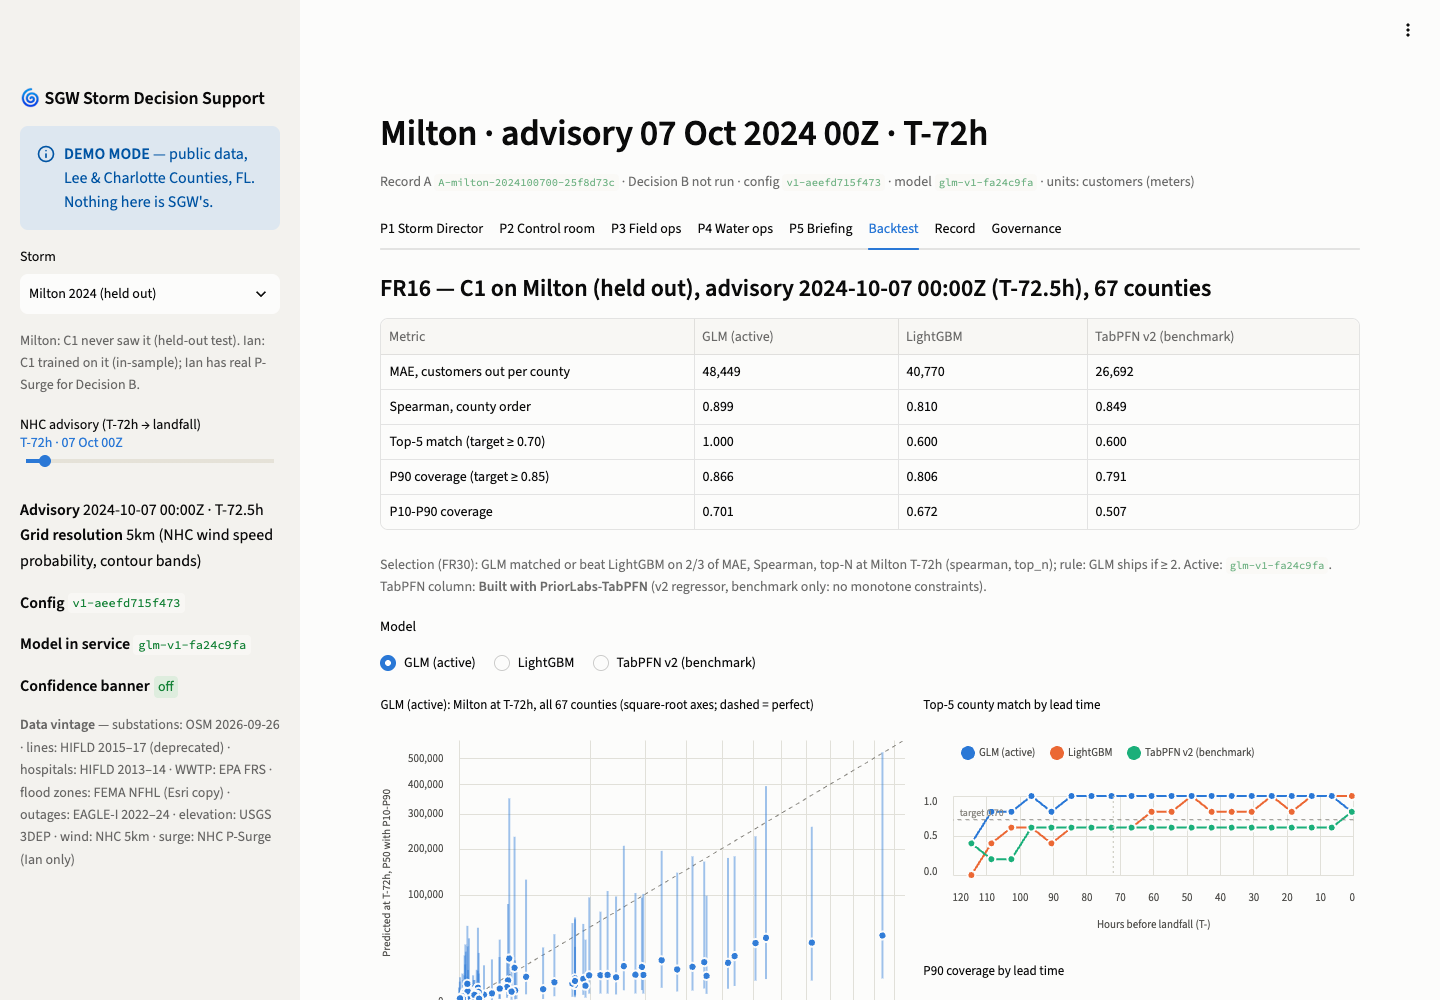
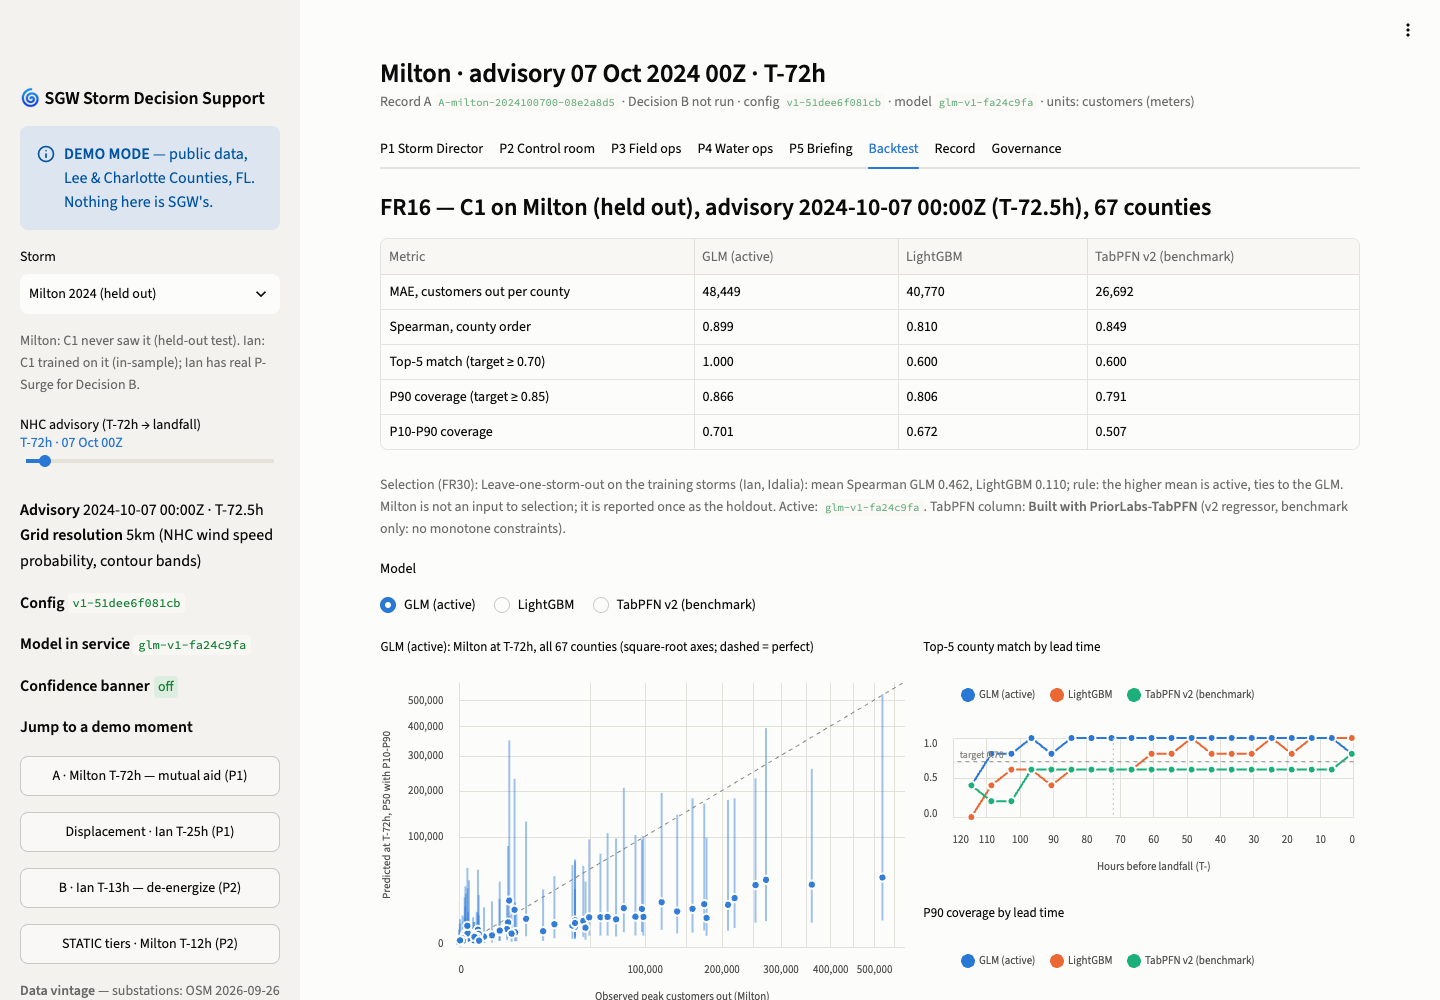
UI review: layout, P2 table order, demo-moment jumps, screenshots
- Sidebar 'Jump to a demo moment': Beat A (Milton T-72h), displacement
  (Ian T-25h), Beat B (Ian T-13h), STATIC tiers (Milton T-12h)
- P2: recommendation-first table sorted de-energize > escalate > watch >
  judgment; constant Source/Threshold moved to the header; short metric
  labels (detail in help); toggles in one row; outside-screening list
  after the main table
- P1: one-line banner, whole-number crew-hours input, staging table fits,
  rule notes only for displaced zones, compact sign-off form
- Record tab: fitted table with fewer columns; tighter page spacing
- README screenshots regenerated (P2 had pre-R2 labels)

diff --git a/app/app.py b/app/app.py
@@ -31,6 +31,13 @@ from src.pull.common import PROCESSED, STORMS  # noqa: E402
 from src.store import record  # noqa: E402
 
 st.set_page_config(page_title="SGW Storm Decision Support (POC)", page_icon="🌀", layout="wide")
+st.markdown("""<style>
+.block-container {padding-top: 1.6rem; padding-bottom: 3rem; max-width: 1480px;}
+h2 {font-size: 1.65rem !important; padding-bottom: 0.1rem !important;}
+[data-testid="stMetricValue"] {font-size: 1.9rem;}
+[data-testid="stMetricLabel"] p {font-size: 0.85rem;}
+[data-testid="stSidebar"] .stButton button {justify-content: flex-start; font-size: 0.85rem; padding: 0.2rem 0.6rem;}
+</style>""", unsafe_allow_html=True)
 
 STORM_OPTIONS = {
     "milton": "Milton 2024 (held out)",
@@ -97,6 +104,20 @@ def actions_for(record_id: str) -> list[dict]:
 
 
 # ---------------------------------------------------------------- sidebar
+DEMO_MOMENTS = {  # label -> (storm, latest advisory at or before T-lead); open the tab named in the label
+    "A · Milton T-72h — mutual aid (P1)": ("milton", 72),
+    "Displacement · Ian T-25h (P1)": ("ian", 25),
+    "B · Ian T-13h — de-energize (P2)": ("ian", 12),
+    "STATIC tiers · Milton T-12h (P2)": ("milton", 12),
+}
+
+
+def _jump(j_storm: str, lead_h: float) -> None:
+    a = advisories(j_storm)
+    st.session_state["storm"] = j_storm
+    st.session_state[f"adv_{j_storm}"] = a[a["hours_to_landfall"] >= lead_h]["advisory_time"].max().isoformat()
+
+
 C = cfg()
 with st.sidebar:
     st.markdown("### 🌀 SGW Storm Decision Support")
@@ -123,6 +144,9 @@ with st.sidebar:
     bt = backtest()["fr16"][kind]
     banner_on = bt["top_n_match"] < C["banner_topn_match"] or bt["p90_coverage"] < C["banner_p90_coverage"]
     st.markdown("**Confidence banner** " + (":red-badge[ON]" if banner_on else ":green-badge[off]"))
+    st.markdown("**Jump to a demo moment**")
+    for label, (j_storm, j_lead) in DEMO_MOMENTS.items():
+        st.button(label, on_click=_jump, args=(j_storm, j_lead), width="stretch", key=f"jump_{label}")
     st.caption("**Data vintage** — substations: OSM 2026-09-26 · lines: HIFLD 2015–17 (deprecated) · hospitals: HIFLD "
                "2013–14 · WWTP: EPA FRS · flood zones: FEMA NFHL (Esri copy) · outages: EAGLE-I 2022–24 · elevation: "
                "USGS 3DEP · wind: NHC 5km · surge: NHC P-Surge (Ian only)")
@@ -151,28 +175,30 @@ with tabs[0]:
                  f"{banner['targets']['top_n_match']:.2f}), P90 coverage {banner['p90_coverage']:.2f} (target "
                  f"{banner['targets']['p90_coverage']:.2f}). **Decide on judgment.** (FR17)", icon=":material/warning:")
     else:
-        st.success(f"Confidence banner **off** — model `{A['model_version']}` met its targets on held-out "
-                   f"{banner['held_out_storm'].title()}: top-5 match {banner['top_n_match']:.2f} ≥ "
-                   f"{banner['targets']['top_n_match']:.2f}, P90 coverage {banner['p90_coverage']:.2f} ≥ "
-                   f"{banner['targets']['p90_coverage']:.2f}. (FR17)", icon=":material/check_circle:")
+        st.success(f"Confidence banner **off** — targets met on held-out {banner['held_out_storm'].title()}: top-5 "
+                   f"{banner['top_n_match']:.2f} ≥ {banner['targets']['top_n_match']:.2f} · P90 coverage "
+                   f"{banner['p90_coverage']:.2f} ≥ {banner['targets']['p90_coverage']:.2f} (FR17)",
+                   icon=":material/check_circle:")
 
     c1, c2, c3, c4 = st.columns(4)
     c1.metric("Mutual aid request", f"{plan['mutual_aid_crews']:,} crews", help=plan["formula"])
     c2.metric("Workers", f"{plan['mutual_aid_workers']:,}", help=f"crew size {plan['crew_size']} (PLACEHOLDER)")
     c3.metric("P90 crew-hours (Lee + Charlotte)", ui.fmt(plan["total_crew_hours_p90"]))
-    c4.metric("If sized on P50", f"{plan['mutual_aid_crews_if_p50']:,} crews")
+    c4.metric("Same rule on P50", f"{plan['mutual_aid_crews_if_p50']:,} crews", help="For comparison: the request is sized on P90")
     st.caption(scale_line(plan), help=plan.get("calibration_note"))
 
     with st.container(border=True):
         cc1, cc2 = st.columns([1, 2])
-        default_crew = float(C["own_crew_hours_default"])
-        entered = cc1.number_input("SGW's own available crew-hours", min_value=0.0, step=1000.0,
-                                   value=float(A["crew_hours_entered"]), key=f"crew_in_{storm}_{t_iso}")
-        cc2.markdown(":violet-badge[PLACEHOLDER] typed by P1 at T-72h and revised at T-48h (FR11); the crew roster "
-                     "replaces the typing in Phase 2. Changing it reruns Decision A and writes a new record.  \n"
-                     f"Current source: **{A['crew_hours_source']}**. Restoration window {plan['restoration_days']:.0f} days, "
-                     f"crew size {plan['crew_size']}, {plan['restoration_rate']:.0f} customers per worker-day — all config values.")
-        if entered != float(A["crew_hours_entered"]):
+        default_crew = int(C["own_crew_hours_default"])
+        entered = cc1.number_input("SGW's own available crew-hours", min_value=0, step=1000, format="%d",
+                                   value=int(A["crew_hours_entered"]), key=f"crew_in_{storm}_{t_iso}")
+        src_badge = (":violet-badge[PLACEHOLDER] default value." if "PLACEHOLDER" in A["crew_hours_source"]
+                     else ":blue-badge[ENTERED BY P1]")
+        cc2.markdown(f"{src_badge} P1 types it at T-72h and revises it at T-48h (FR11); "
+                     "changing it reruns Decision A and writes a new record.  \n"
+                     f"Config: {plan['restoration_days']:.0f}-day window · crew size {plan['crew_size']} · "
+                     f"{plan['restoration_rate']:.0f} customers per worker-day (all placeholders).")
+        if entered != int(A["crew_hours_entered"]):
             st.session_state[f"crew_{storm}_{t_iso}"] = None if entered == default_crew else entered
             st.rerun()
 
@@ -218,7 +244,7 @@ with tabs[0]:
         zp["assigned"] = [f"{'⚠ DISPLACED → ' if d else ''}{s or 'none below threshold: P1 decides'}"
                           for d, s in zip(zp["displaced"], zp["assigned_site_name"])]
         zp["mapped"] = [f"{n} ({p:.2f})" for n, p in zip(zp["mapped_site_name"], zp["mapped_site_p64"])]
-        st.dataframe(zp[["zone_name", "assigned", "customers_out_p50", "customers_out_p90", "crew_hours_p90", "mapped"]],
+        st.dataframe(zp[["zone_name", "assigned", "customers_out_p50", "customers_out_p90", "mapped"]],
                      hide_index=True, width="stretch",
                      column_config={"zone_name": "Zone", "customers_out_p50": st.column_config.NumberColumn("P50 out", format="%,d"),
                                     "customers_out_p90": st.column_config.NumberColumn("P90 out", format="%,d"),
@@ -226,7 +252,8 @@ with tabs[0]:
                                     "crew_hours_p90": st.column_config.NumberColumn("P90 crew-h", format="%,d"),
                                     "mapped": "Mapped site (p64)", "assigned": "Assigned site"})
         for z in plan["zones"]:
-            st.caption(f"{z['zone_name']}: {z['note']}")
+            if z.get("displaced"):
+                st.caption(f"⚠ {z['zone_name']}: {z['note']}")
         st.caption(f":violet-badge[PLACEHOLDER] staging site list (the real list lives in SGW's storm plan, A19). "
                    f"Site displaced if its 64 kt probability > {C['site_wind_threshold']:.2f}.")
         st.markdown("**County estimates** (C1, P10 / P50 / P90 customers out) — zones and the statewide top 8")
@@ -250,8 +277,8 @@ with tabs[0]:
                 payload["mutual_aid_crews"] = st.number_input("Crews to request", min_value=0, value=int(plan["mutual_aid_crews"]), step=50)
                 payload["staging_note"] = st.text_input("Staging change (optional)")
             if choice == "Override":
-                payload["plan_as_decided"] = st.text_area("Plan as decided")
-            reason = st.text_area("Reason" + (" (required)" if choice != "Approve" else " (optional)"))
+                payload["plan_as_decided"] = st.text_area("Plan as decided", height=80)
+            reason = st.text_area("Reason" + (" (required)" if choice != "Approve" else " (optional)"), height=80)
             if st.form_submit_button(f"{choice} and write to the record", type="primary"):
                 try:
                     record.add_action(conn(), choice.upper(), actor, A["record_id"], reason or None, payload or None)
@@ -278,13 +305,7 @@ with tabs[1]:
         st.info(f"Decision B does not run for this advisory: no P-Surge grid is loaded and it is before T-"
                 f"{C['decisionB_starts_hours']}h (the watch window). P2 sees nothing from C5. Move the advisory slider "
                 "closer to landfall, or pick Ian (real P-Surge).", icon=":material/schedule:")
-
-        def _jump_to_ian_t12():
-            a_ian = advisories("ian")
-            st.session_state["storm"] = "ian"
-            st.session_state["adv_ian"] = a_ian[a_ian["hours_to_landfall"] >= 12]["advisory_time"].max().isoformat()
-
-        st.button("Jump to Ian T-13h", on_click=_jump_to_ian_t12, icon=":material/fast_forward:")
+        st.button("Jump to Ian T-13h", on_click=_jump, args=("ian", 12), icon=":material/fast_forward:")
     else:
         rc = B["recommendation"]
         est_b = pd.DataFrame(B["estimates"]["substations"])
@@ -305,82 +326,80 @@ with tabs[1]:
                         "otherwise, and routes to **P2's judgment**."
                         f" · Height :orange-badge[ESTIMATED] ground (3DEP) + {C['height_offset_m']} m placeholder offset"
                         " · Flood sensor :gray-badge[BLANK] no historian in the prototype (FR21)")
-        held = sb[sb["escalation"].fillna(False).astype(bool)]
+        esc = sb["escalation"].fillna(False).astype(bool)
         n_judg = int((sb["recommendation"] == "JUDGMENT").sum())
+        n_de = int((sb["recommendation"] == "DE-ENERGIZE").sum())
         m1, m2, m3, m4, m5 = st.columns(5)
         m1.metric("Screening set", len(sb), help="Substations in FEMA zones " + ", ".join(C["screening_zones"]))
-        m2.metric("🔴 DE-ENERGIZE", int((sb["recommendation"] == "DE-ENERGIZE").sum()))
-        m3.metric("🟠 ESCALATE: confirm backup", len(held), help="Above threshold, held on WATCH: a hospital or pumping "
-                                                                 "station on the PLACEHOLDER FEED has unknown backup (A18). "
-                                                                 "Confirm its backup before de-energizing.")
-        m4.metric("🟡 WATCH: below threshold", int((sb["recommendation"] == "WATCH").sum()) - len(held))
-        m5.metric("⚪ JUDGMENT (STATIC)", n_judg, help="No P-Surge snapshot: STATIC tier from FEMA zone and BFE; P2 decides")
-        mc1 = mc2 = st.container()
-        with mc1:
-            show_zones = st.toggle("FEMA flood zones", value=True)
-            show_hwm = st.toggle("USGS high-water marks (Ian, observed)", value=(storm == "ian"), disabled=(storm != "ian"))
-            show_out = st.toggle("Show substations outside the screening set with P-Surge above threshold",
-                                 value=(src == "PSURGE"), disabled=(src != "PSURGE"))
-            layers = []
-            if show_zones:
-                zgeo = load_geo("flood_sfha")
-                for f in zgeo["features"]:
-                    z = f["properties"]["FLD_ZONE"]
-                    f["properties"]["fill"] = ui.rgb(ui.SEQ[5] if z == "VE" else ui.SEQ[2], 90)
-                layers.append(pdk.Layer("GeoJsonLayer", zgeo, filled=True, stroked=False, get_fill_color="properties.fill"))
-            if show_hwm and storm == "ian":
-                h = load_parquet("hwm_ian").copy()
-                h["txt"] = [f"HWM {w:.2f} m NAVD88" for w in h["water_elev_m_navd88"]]
-                layers.append(pdk.Layer("ScatterplotLayer", h, get_position=["lon", "lat"], get_radius=4, radius_units="'pixels'",
-                                        get_fill_color=ui.rgb(ui.SEQ[11], 220), pickable=True))
-            esc = sb["escalation"].fillna(False).astype(bool)
-            sb["color"] = [ui.rgb(ui.STATUS["critical"]) if r == "DE-ENERGIZE" else ui.rgb(ui.STATUS["serious"]) if e else
-                           (ui.rgb(ui.INK["muted"]) if r == "JUDGMENT" else ui.rgb(ui.STATUS["warning"]))
-                           for r, e in zip(sb["recommendation"], esc)]
-            sb["txt"] = [f"{n or a} · {'WATCH · ESCALATE' if e else r} · " + (f"STATIC tier {t}" if r == "JUDGMENT" else f"p {p:.2f}")
-                         for n, a, r, p, t, e in zip(sb["name"], sb["asset_id"], sb["recommendation"], sb["prob"],
-                                                     sb["static_tier"], esc)]
-            layers.append(pdk.Layer("ScatterplotLayer", sb, get_position=["lon", "lat"], get_radius=8, radius_units="'pixels'",
-                                    get_fill_color="color", stroked=True, get_line_color=[255, 255, 255], line_width_min_pixels=2,
-                                    pickable=True))
-            ox = pd.DataFrame()
-            if show_out and src == "PSURGE":
-                allf = c5.inundation(load_parquet("registry"), load_parquet("psurge_sites"), storm, t, C, screen=False)
-                ox = allf[~allf["fema_zone"].isin(C["screening_zones"]) & allf["prob_source"].eq("PSURGE")
-                          & (allf["prob"] >= rc["threshold_in_force"])].sort_values("prob", ascending=False).copy()
-                ox["txt"] = [f"{n or a} · zone {z} · P-Surge {p:.2f} · outside the screening set"
-                             for n, a, z, p in zip(ox["name"], ox["asset_id"], ox["fema_zone"], ox["prob"])]
-                layers.append(pdk.Layer("ScatterplotLayer", ox, get_position=["lon", "lat"], get_radius=9, radius_units="'pixels'",
-                                        filled=False, stroked=True, get_line_color=ui.rgb(ui.INK["primary"]),
-                                        line_width_min_pixels=3, pickable=True))
-            st.pydeck_chart(ui.deck(layers, ui.STUDY_VIEW, {"html": "{txt}", "style": ui.TOOLTIP_STYLE}, height=440))
-            st.caption("🔴 DE-ENERGIZE · 🟠 ESCALATE (WATCH, confirm backup) · 🟡 WATCH · ⚪ JUDGMENT (STATIC tier) · ◯ hollow ring = outside the screening set, "
-                       "P-Surge above threshold · blue fill = FEMA special flood hazard area (darker = VE) · dark dots = "
-                       "Ian high-water marks. Hover for values.")
-            if len(ox):
-                st.caption(f"◯ {len(ox)} substation(s): not in the FEMA-zone screening set; P-Surge flags them anyway. "
-                           "Phase 0 should screen on P-Surge coverage as well as FEMA zone (LIMITATIONS §4).")
-                st.dataframe(ox[["asset_id", "name", "fema_zone", "prob", "ground_elev_m"]], hide_index=True, width="stretch",
-                             column_config={"asset_id": "ID", "name": "Substation", "fema_zone": "Zone",
-                                            "prob": st.column_config.NumberColumn("P-Surge", format="%.2f"),
-                                            "ground_elev_m": st.column_config.NumberColumn("Ground m", format="%.2f")})
-        with mc2:
-            sb["rec"] = ["🟠 WATCH · ESCALATE" if e else ui.REC_ICON.get(r, r) for r, e in
-                         zip(sb["recommendation"], sb["escalation"].fillna(False).astype(bool))]
-            cols = ["asset_id", "name", "fema_zone", "ground_elev_m", "switchgear_m_navd88", "prob", "prob_source", "threshold",
-                    "critical_load_check", "rec", "reason"]
-            if n_judg:
-                cols = [c if c != "prob" else "static_tier" for c in cols if c != "threshold"]
-            st.dataframe(sb.sort_values("prob", ascending=False)[cols],
-                         hide_index=True, width="stretch", height=440,
+        m2.metric("🔴 De-energize", n_de, help="P-Surge probability at or above the threshold in force; no critical load on the feed")
+        m3.metric("🟠 Escalate", int(esc.sum()), help="ESCALATE: confirm backup. Above threshold, held on WATCH: a hospital "
+                                                      "or pumping station on the PLACEHOLDER FEED has unknown backup (A18). "
+                                                      "Confirm its backup before de-energizing.")
+        m4.metric("🟡 Watch", int((sb["recommendation"] == "WATCH").sum()) - int(esc.sum()), help="Below the threshold in force")
+        m5.metric("⚪ Judgment", n_judg, help="JUDGMENT (STATIC): no P-Surge snapshot, so a STATIC tier from FEMA zone and "
+                                             "BFE routes the site to P2's judgment")
+        t1, t2, t3 = st.columns([0.8, 1.1, 1.6])
+        show_zones = t1.toggle("FEMA flood zones", value=True)
+        show_hwm = t2.toggle("USGS high-water marks (Ian, observed)", value=(storm == "ian"), disabled=(storm != "ian"))
+        show_out = t3.toggle("Show substations outside the screening set with P-Surge above threshold",
+                             value=(src == "PSURGE"), disabled=(src != "PSURGE"))
+        layers = []
+        if show_zones:
+            zgeo = load_geo("flood_sfha")
+            for f in zgeo["features"]:
+                z = f["properties"]["FLD_ZONE"]
+                f["properties"]["fill"] = ui.rgb(ui.SEQ[5] if z == "VE" else ui.SEQ[2], 90)
+            layers.append(pdk.Layer("GeoJsonLayer", zgeo, filled=True, stroked=False, get_fill_color="properties.fill"))
+        if show_hwm and storm == "ian":
+            h = load_parquet("hwm_ian").copy()
+            h["txt"] = [f"HWM {w:.2f} m NAVD88" for w in h["water_elev_m_navd88"]]
+            layers.append(pdk.Layer("ScatterplotLayer", h, get_position=["lon", "lat"], get_radius=4, radius_units="'pixels'",
+                                    get_fill_color=ui.rgb(ui.SEQ[11], 220), pickable=True))
+        sb["color"] = [ui.rgb(ui.STATUS["critical"]) if r == "DE-ENERGIZE" else ui.rgb(ui.STATUS["serious"]) if e else
+                       (ui.rgb(ui.INK["muted"]) if r == "JUDGMENT" else ui.rgb(ui.STATUS["warning"]))
+                       for r, e in zip(sb["recommendation"], esc)]
+        sb["txt"] = [f"{n or a} · {'WATCH · ESCALATE' if e else r} · " + (f"STATIC tier {t_}" if r == "JUDGMENT" else f"p {p:.2f}")
+                     for n, a, r, p, t_, e in zip(sb["name"], sb["asset_id"], sb["recommendation"], sb["prob"],
+                                                  sb["static_tier"], esc)]
+        layers.append(pdk.Layer("ScatterplotLayer", sb, get_position=["lon", "lat"], get_radius=8, radius_units="'pixels'",
+                                get_fill_color="color", stroked=True, get_line_color=[255, 255, 255], line_width_min_pixels=2,
+                                pickable=True))
+        ox = pd.DataFrame()
+        if show_out and src == "PSURGE":
+            allf = c5.inundation(load_parquet("registry"), load_parquet("psurge_sites"), storm, t, C, screen=False)
+            ox = allf[~allf["fema_zone"].isin(C["screening_zones"]) & allf["prob_source"].eq("PSURGE")
+                      & (allf["prob"] >= rc["threshold_in_force"])].sort_values("prob", ascending=False).copy()
+            ox["txt"] = [f"{n or a} · zone {z} · P-Surge {p:.2f} · outside the screening set"
+                         for n, a, z, p in zip(ox["name"], ox["asset_id"], ox["fema_zone"], ox["prob"])]
+            layers.append(pdk.Layer("ScatterplotLayer", ox, get_position=["lon", "lat"], get_radius=9, radius_units="'pixels'",
+                                    filled=False, stroked=True, get_line_color=ui.rgb(ui.INK["primary"]),
+                                    line_width_min_pixels=3, pickable=True))
+        st.pydeck_chart(ui.deck(layers, ui.STUDY_VIEW, {"html": "{txt}", "style": ui.TOOLTIP_STYLE}, height=440))
+        st.caption("🔴 de-energize · 🟠 escalate (WATCH, confirm backup) · 🟡 watch · ⚪ judgment (STATIC tier) · ◯ outside the "
+                   "screening set, P-Surge above threshold · blue fill = FEMA flood zone (darker = VE) · dark dots = Ian "
+                   "high-water marks. Hover for values.")
+        sb["rec"] = ["🟠 WATCH · ESCALATE" if e else ui.REC_ICON.get(r, r) for r, e in zip(sb["recommendation"], esc)]
+        order = {"DE-ENERGIZE": 0, "WATCH": 2, "JUDGMENT": 3}
+        sb["_o"] = [1 if e else order.get(r, 4) for r, e in zip(sb["recommendation"], esc)]
+        lead = "static_tier" if n_judg else "prob"
+        st.dataframe(sb.sort_values(["_o", "prob"], ascending=[True, False])[
+                         ["rec", "asset_id", "name", lead, "fema_zone", "switchgear_m_navd88", "critical_load_check", "reason"]],
+                     hide_index=True, width="stretch", height=420,
+                     column_config={"rec": "Recommendation", "asset_id": "ID", "name": "Substation", "fema_zone": "Zone",
+                                    "prob": st.column_config.ProgressColumn("P(inundation)", min_value=0.0, max_value=1.0, format="%.2f"),
+                                    "static_tier": "STATIC tier",
+                                    "switchgear_m_navd88": st.column_config.NumberColumn("Switchgear m (ESTIMATED)", format="%.2f"),
+                                    "critical_load_check": "Critical load", "reason": "Why"})
+        if len(ox):
+            st.markdown(f"**◯ Outside the screening set — P-Surge above threshold ({len(ox)})**")
+            st.caption("Not in the FEMA-zone screening set; P-Surge flags them anyway. Phase 0 should screen on P-Surge "
+                       "coverage as well as FEMA zone (LIMITATIONS §4).")
+            st.dataframe(ox[["asset_id", "name", "fema_zone", "prob", "ground_elev_m"]], hide_index=True, width="stretch",
                          column_config={"asset_id": "ID", "name": "Substation", "fema_zone": "Zone",
-                                        "ground_elev_m": st.column_config.NumberColumn("Ground m", format="%.2f"),
-                                        "switchgear_m_navd88": st.column_config.NumberColumn("Switchgear m (ESTIMATED)", format="%.2f"),
-                                        "prob": st.column_config.ProgressColumn("P(inundation)", min_value=0.0, max_value=1.0, format="%.2f"),
-                                        "prob_source": "Source", "threshold": st.column_config.NumberColumn("Threshold", format="%.2f"),
-                                        "static_tier": "STATIC tier",
-                                        "critical_load_check": "Critical load", "rec": "Recommendation", "reason": "Why"})
-        st.markdown("#### Sign-off (FR24) — the control room switches in its own systems; the platform never touches SCADA")
+                                        "prob": st.column_config.NumberColumn("P-Surge", format="%.2f"),
+                                        "ground_elev_m": st.column_config.NumberColumn("Ground m", format="%.2f")})
+        st.markdown("#### Sign-off (FR24)")
+        st.caption("P2 signs off or declines here; the control room switches in its own systems. The platform never touches SCADA.")
         with st.form(f"p2form_{B['record_id']}", clear_on_submit=True):
             opts = sb["asset_id"].tolist()
             picked = st.multiselect("Substations", opts, format_func=lambda a: f"{a} · {sb.set_index('asset_id').loc[a, 'name'] or ''} · "
@@ -617,7 +636,12 @@ with tabs[5]:
 with tabs[6]:
     st.markdown("#### Decision record (FR25) — append-only; every row replays exactly")
     recs = record.list_records(conn())
-    st.dataframe(recs, hide_index=True, width="stretch", height=260)
+    st.dataframe(recs[["record_id", "decision", "storm_id", "advisory_time", "status", "output_hash", "config_version",
+                       "model_version", "created_at"]], hide_index=True, width="stretch",
+                 height=min(38 + 35 * max(len(recs), 1), 300),
+                 column_config={"record_id": "Record", "decision": "Decision", "storm_id": "Storm",
+                                "advisory_time": "Advisory", "status": "Status", "output_hash": "Output hash",
+                                "config_version": "Config", "model_version": "Model", "created_at": "Written (UTC)"})
     if len(recs):
         rid = st.selectbox("Record", recs["record_id"].tolist(),
                            index=recs["record_id"].tolist().index(A["record_id"]) if A["record_id"] in set(recs["record_id"]) else 0)
